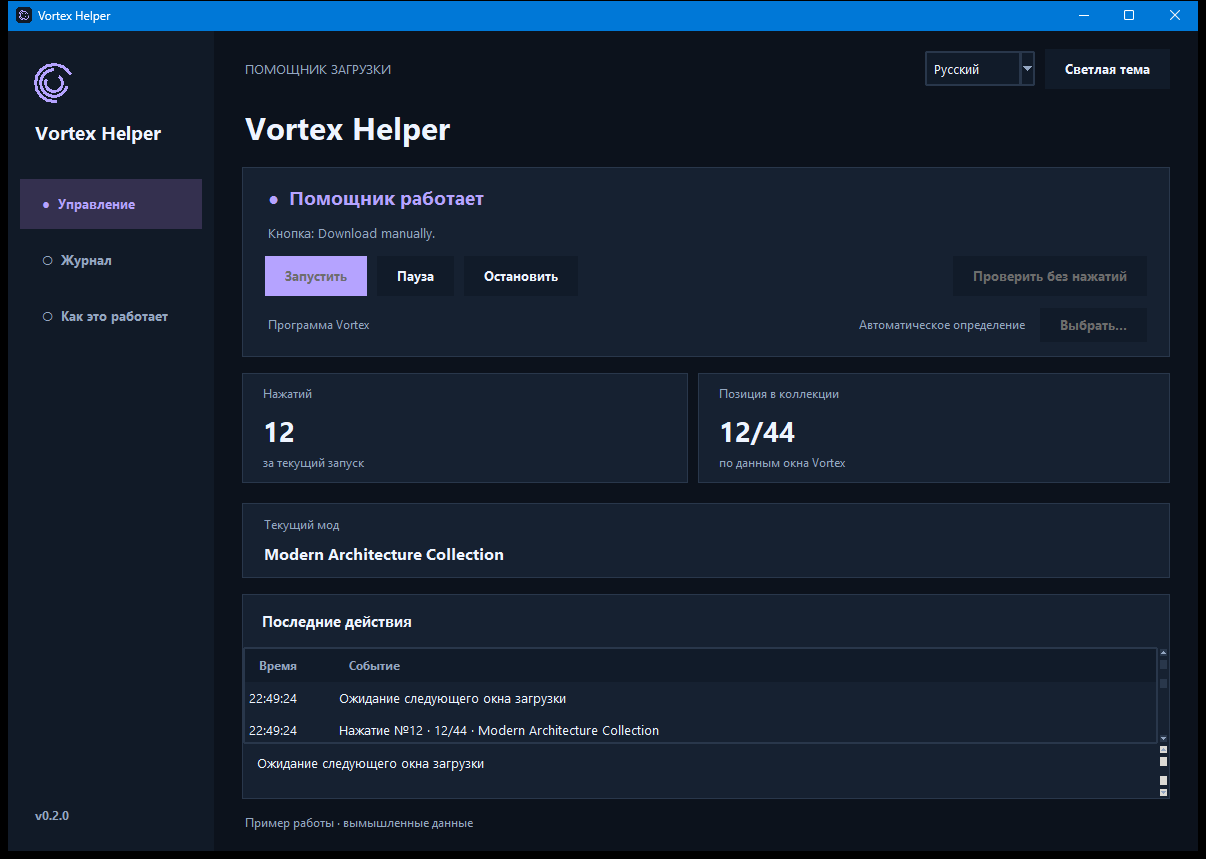
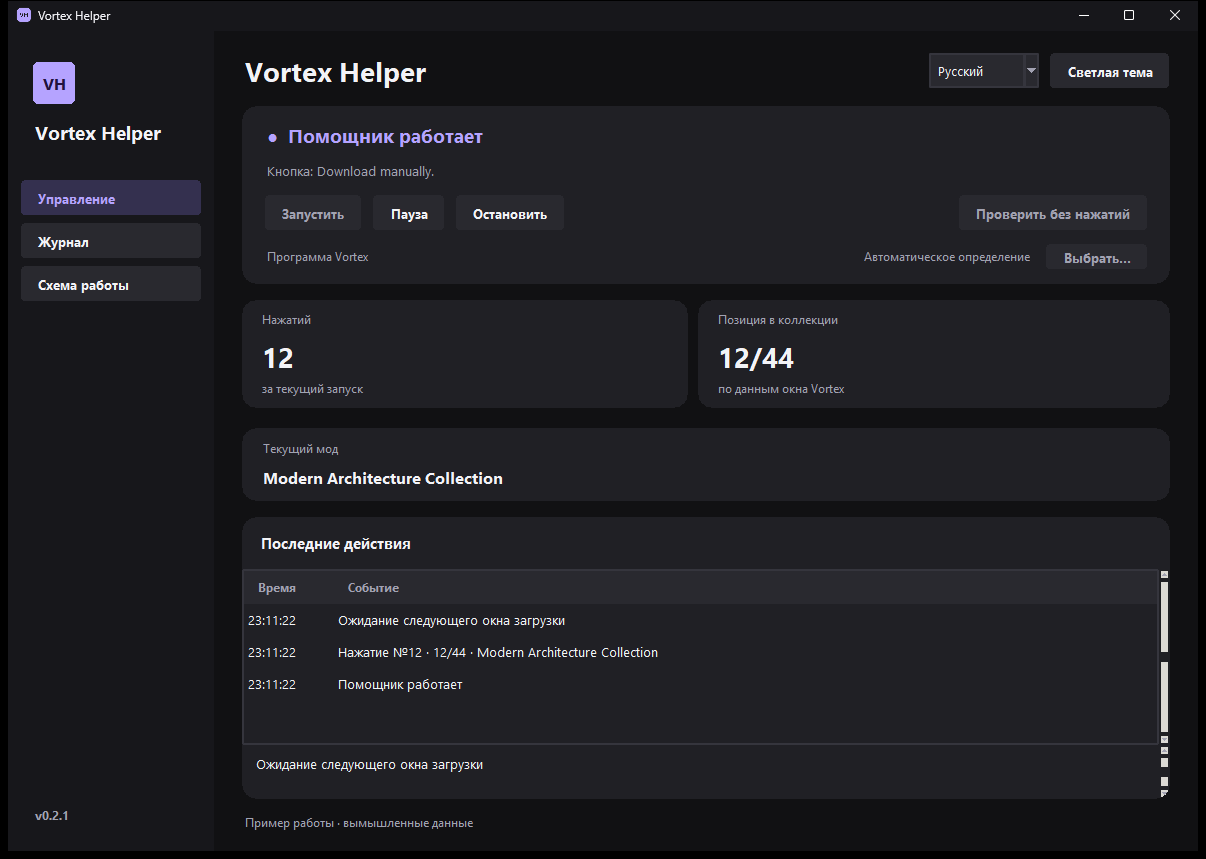
Release 0.2.1: portable desktop UI, Russian/English themes and verified controls

diff --git a/desktop_ui.py b/desktop_ui.py
@@ -10,13 +10,14 @@ import struct
 import sys
 import tkinter as tk
 from tkinter import ttk
+from tkinter import font as tkfont
 import zlib
 
 PALETTES = {
-    'dark': dict(bg='#0c121c', side='#111a27', card='#162131', field='#111b29', line='#29374b',
-                 text='#eef4ff', muted='#94a6c1', hover='#22324a', accent='#68e0b6', ink='#092a21',
+    'dark': dict(bg='#111113', side='#17171b', card='#202025', field='#29292f', line='#35353d',
+                 text='#f3f3f7', muted='#a2a2b2', hover='#34343e', accent='#68e0b6', ink='#092a21',
                  red='#ff939c', amber='#f4c574', blue='#90baff', selected='#283e50'),
-    'light': dict(bg='#f1f4f9', side='#ffffff', card='#ffffff', field='#f5f7fb', line='#d9e1ed',
+    'light': dict(bg='#f3f4f7', side='#ffffff', card='#ffffff', field='#edeff4', line='#e0e3eb',
                   text='#19283f', muted='#60718a', hover='#e7edf7', accent='#137d60', ink='#ffffff',
                   red='#b42c45', amber='#916013', blue='#2868ae', selected='#dbeee7'),
 }
@@ -49,10 +50,14 @@ def windows_setup(root, dark):
     if sys.platform != 'win32':
         return
     try:
-        hwnd = ctypes.windll.user32.GetParent(root.winfo_id())
+        from ctypes import wintypes
+        user=ctypes.windll.user32; dwm=ctypes.windll.dwmapi
+        user.GetAncestor.argtypes=[wintypes.HWND,wintypes.UINT];user.GetAncestor.restype=wintypes.HWND
+        dwm.DwmSetWindowAttribute.argtypes=[wintypes.HWND,wintypes.DWORD,ctypes.c_void_p,wintypes.DWORD]
+        hwnd=user.GetAncestor(root.winfo_id(),2)
         value = ctypes.c_int(bool(dark))
         ctypes.windll.dwmapi.DwmSetWindowAttribute(hwnd, 20, ctypes.byref(value), 4)
-        for attribute, color in ((35, 0x1c120c if dark else 0xf9f4f1), (36, 0xfff4ee if dark else 0x3f2819)):
+        for attribute, color in ((35, 0x1b1717 if dark else 0xf7f4f3), (36, 0xf7f3f3 if dark else 0x3f2819)):
             native_color=ctypes.c_uint(color)
             ctypes.windll.dwmapi.DwmSetWindowAttribute(hwnd, attribute, ctypes.byref(native_color), 4)
     except (AttributeError, OSError):
@@ -64,20 +69,80 @@ def label(parent, text, palette, size=10, bold=False, muted=False, **kwargs):
                     font=('Segoe UI', size, 'bold' if bold else 'normal'), anchor='w', **kwargs)
 
 
-def button(parent, text, command, palette, primary=False, width=None):
-    kwargs = dict(text=text, command=command, font=('Segoe UI', 10, 'bold'), relief='flat', bd=0,
-                  bg=palette['accent'] if primary else palette['field'],
-                  fg=palette['ink'] if primary else palette['text'],
-                  activebackground=palette['hover'], activeforeground=palette['text'],
-                  padx=17, pady=8, cursor='hand2', takefocus=True,
-                  highlightthickness=1, highlightbackground=palette['line'], highlightcolor=palette['accent'])
-    if width:
-        kwargs['width'] = width
-    return tk.Button(parent, **kwargs)
+def round_shape(canvas,x1,y1,x2,y2,radius,**kwargs):
+    r=min(radius,(x2-x1)/2,(y2-y1)/2)
+    return canvas.create_polygon(x1+r,y1,x2-r,y1,x2,y1,x2,y1+r,x2,y2-r,x2,y2,x2-r,y2,
+        x1+r,y2,x1,y2,x1,y2-r,x1,y1+r,x1,y1,smooth=True,splinesteps=24,**kwargs)
+
+
+class RoundedButton(tk.Canvas):
+    def __init__(self,parent,text,command,palette,primary=False,width=None,anchor='center',active=False):
+        self.palette=palette;self.primary=primary;self.command=command;self.text=text;self.state='normal'
+        self.padx=18;self.pady=10;self.hovered=False;self.focused=False;self.anchor=anchor;self.active=active
+        self.font=tkfont.Font(family='Segoe UI',size=10,weight='bold')
+        self.minimum_width=(width or 0)*8
+        super().__init__(parent,bg=parent.cget('bg'),highlightthickness=0,bd=0,takefocus=1,cursor='hand2')
+        self.bind('<Configure>',lambda _:self.draw())
+        self.bind('<Enter>',lambda _:self.hover(True));self.bind('<Leave>',lambda _:self.hover(False))
+        self.bind('<Button-1>',lambda _:self.invoke());self.bind('<space>',lambda _:self.invoke());self.bind('<Return>',lambda _:self.invoke())
+        self.bind('<FocusIn>',lambda _:self.focus(True));self.bind('<FocusOut>',lambda _:self.focus(False))
+        self.resize()
+
+    def resize(self):
+        super().configure(width=max(self.minimum_width,self.font.measure(self.text)+self.padx*2),height=self.font.metrics('linespace')+self.pady*2)
+        self.draw()
+
+    def configure(self,cnf=None,**kwargs):
+        if isinstance(cnf,dict):kwargs.update(cnf)
+        resized=False
+        for key in ('text','command','state','padx','pady'):
+            if key in kwargs:
+                setattr(self,key,kwargs.pop(key));resized=True
+        if kwargs:super().configure(**kwargs)
+        if resized:self.resize()
+        else:self.draw()
+    config=configure
+
+    def cget(self,key):
+        if key in ('state','text','command'):return getattr(self,key)
+        return super().cget(key)
+
+    def invoke(self):
+        if self.state!='disabled' and self.command:return self.command()
+
+    def hover(self,value):self.hovered=value;self.draw()
+    def focus(self,value):self.focused=value;self.draw()
+
+    def draw(self):
+        if not self.winfo_exists():return
+        p=self.palette;disabled=self.state=='disabled'
+        fill=p['field'] if disabled else p['accent'] if self.primary else p['selected'] if self.active else p['hover'] if self.hovered else p['field']
+        foreground=p['muted'] if disabled else p['ink'] if self.primary else p['accent'] if self.active else p['text']
+        self.delete('all')
+        w=max(self.winfo_width(),int(super().cget('width')));h=int(super().cget('height'))
+        round_shape(self,1,1,w-1,h-1,10,fill=fill,outline=p['accent'] if self.focused and not disabled else '')
+        self.create_text(self.padx if self.anchor=='w' else w/2,h/2,text=self.text,font=self.font,fill=foreground,anchor=self.anchor)
+
+
+def button(parent,text,command,palette,primary=False,width=None):
+    return RoundedButton(parent,text,command,palette,primary,width)
 
 
 def card(parent, palette, **kwargs):
-    return tk.Frame(parent, bg=palette['card'], highlightbackground=palette['line'], highlightthickness=1, **kwargs)
+    frame=tk.Frame(parent,bg=palette['card'],bd=0,**kwargs)
+    previous=[None]
+    def clip(event):
+        if os.name!='nt' or (event.width,event.height)==previous[0] or event.width<30 or event.height<30:return
+        previous[0]=(event.width,event.height)
+        from ctypes import wintypes
+        gdi=ctypes.windll.gdi32;user=ctypes.windll.user32
+        gdi.CreateRoundRectRgn.restype=wintypes.HANDLE
+        gdi.CreateRoundRectRgn.argtypes=[ctypes.c_int]*6
+        user.SetWindowRgn.argtypes=[wintypes.HWND,wintypes.HANDLE,wintypes.BOOL]
+        region=gdi.CreateRoundRectRgn(0,0,event.width+1,event.height+1,28,28)
+        if not user.SetWindowRgn(frame.winfo_id(),region,True):gdi.DeleteObject(region)
+    frame.bind('<Configure>',clip)
+    return frame
 
 
 def text_area(parent, palette, height=5, expand=False):
@@ -157,6 +222,7 @@ class DesktopApp:
         self.root.option_add('*TCombobox*Listbox.foreground', self.p['text'])
         windows_setup(self.root, self.theme == 'dark')
         self.root.after_idle(lambda: windows_setup(self.root, self.theme == 'dark'))
+        self.root.after(80,lambda:windows_setup(self.root,self.theme=='dark'))
 
     def shell(self, brand, subtitle, navigation):
         for child in self.root.winfo_children():
@@ -168,29 +234,21 @@ class DesktopApp:
         side.pack_propagate(False)
         mark = tk.Canvas(side, width=44, height=44, bg=p['side'], highlightthickness=0)
         mark.pack(anchor='w', padx=24, pady=(30, 12))
-        if self.purple:
-            for offset in range(3):
-                mark.create_arc(3+offset*5, 3+offset*5, 40-offset*5, 40-offset*5,
-                                start=25+offset*65, extent=255, style='arc', width=3, outline=p['accent'])
-        else:
-            mark.create_polygon(22, 2, 40, 9, 37, 28, 22, 42, 7, 28, 4, 9, fill=p['accent'], outline='')
-            mark.create_line(13, 21, 20, 28, 31, 15, fill=p['ink'], width=3)
+        round_shape(mark,1,1,43,43,12,fill=p['accent'],outline='')
+        mark.create_text(22,22,text='VH' if self.purple else 'MA',fill=p['ink'],font=('Segoe UI',12,'bold'))
         label(side, brand, p, 14, True).pack(anchor='w', padx=24,pady=(0,28))
         for index, title in enumerate(navigation):
             active = index == self.nav
-            nav = tk.Button(side, text=('  ●  ' if active else '  ○  ')+title, command=lambda i=index: self.select_nav(i),
-                            bg=p['selected'] if active else p['side'], fg=p['accent'] if active else p['muted'],
-                            activebackground=p['hover'], activeforeground=p['text'], font=('Segoe UI', 10, 'bold'),
-                            relief='flat', anchor='w', bd=0, padx=12, pady=13, cursor='hand2')
+            nav=RoundedButton(side,title,lambda i=index:self.select_nav(i),p,anchor='w',active=active)
             nav.pack(fill='x', padx=12, pady=3)
         bottom = tk.Frame(side, bg=p['side'])
         bottom.pack(side='bottom', fill='x', padx=24, pady=25)
-        label(bottom, 'v0.2.0', p, 9, bold=True, muted=True).pack(anchor='w')
+        label(bottom, 'v0.2.1', p, 9, bold=True, muted=True).pack(anchor='w')
         self.main = tk.Frame(self.root, bg=p['bg'])
         self.main.pack(side='left', fill='both', expand=True, padx=28, pady=18)
         top = tk.Frame(self.main, bg=p['bg'])
         top.pack(fill='x', pady=(0, 14))
-        label(top, self.t('workspace'), p, 10, muted=True).pack(side='left')
+        label(top,self.root.title(),p,20,True).pack(side='left')
         self.theme_button = button(top, self.t('light' if self.theme == 'dark' else 'dark'), self.toggle_theme, p)
         self.theme_button.pack(side='right', padx=(10, 0))
         self.language_box = ttk.Combobox(top, values=['Русский', 'English'], state='readonly', width=11, font=('Segoe UI', 10))

diff --git a/gui.py b/gui.py
@@ -9,12 +9,12 @@ import tempfile
 import tkinter as tk
 from tkinter import filedialog
 
-from desktop_ui import DesktopApp, benchmark, button, card, capture_window, label, put_text, text_area
+from desktop_ui import DesktopApp, benchmark, button, card, capture_window, label, put_text, text_area,round_shape
 from helper_runtime import HelperSession
 
 WORDS = {
  'ru': dict(local='Локальное управление. Без доступа к аккаунту.', workspace='ПОМОЩНИК ЗАГРУЗКИ', light='Светлая тема', dark='Тёмная тема',
-    overview='Управление', activity='Журнал', help='Как это работает', title='Vortex Helper',
+    overview='Управление', activity='Журнал', help='Схема работы', title='Vortex Helper',
     subtitle='Один точный клик, когда меняется мод. Даже если кнопка перемещается.',
     idle='Готов к запуску', running='Помощник работает', paused='Пауза', checking='Проверка окна Vortex', stopped='Помощник остановлен', failed='Нужно ваше внимание',
     intro='Кнопка: Download manually.',
@@ -28,11 +28,13 @@ WORDS = {
     absent='Подходящего окна загрузки сейчас нет. Ничего не нажато.', duplicate='Уже работает другой экземпляр помощника.',
     timeout='Время ожидания истекло. Проверьте результат в Vortex.', target_event='Программа: {path}',
     error='Ошибка: {message}', ended='Сеанс завершён', safe='Нажатий по координатам нет. Premium, Skip и Cancel не используются.',
-    help_title='Справка',
+    help_title='Vortex Helper',flow_one='Vortex',flow_two='Проверка окна',flow_three='Нажатие',
+    step_one='Откройте загрузку коллекции в Vortex.',step_two='Проверьте доступ к кнопке без нажатий.',step_three='Запустите помощник. Новый мод — одно нажатие.',
+    guide_note='Страницы сайта, CAPTCHA и ошибки установки требуют отдельного действия.',
     help_body='1. Откройте Vortex и начните загрузку коллекции.\n\n2. Нажмите «Проверить без нажатий», чтобы проверить доступность нужного окна.\n\n3. Запустите помощник. Кнопка нажимается только после двух стабильных наблюдений одного мода и повторной проверки прямо перед нажатием.\n\n4. Остановите помощник после завершения. Его остановка по таймауту не означает, что все файлы скачались.\n\nСтраницы браузера, CAPTCHA, вход в аккаунт и ошибки установки требуют отдельного внимания. Помощник не изменяет файлы модов и не управляет учётной записью.\n\nПроверенные элементы интерфейса Vortex имеют английские названия. Переключение языка здесь меняет язык помощника.\n\nЖурнал этого окна хранится в памяти, настройки языка и темы — локально. Консольный помощник также ведёт свой журнал в папке TEMP.',
     demo='Пример работы · вымышленные данные'),
  'en': dict(local='Local controls. No account access.', workspace='DOWNLOAD ASSISTANT', light='Light theme', dark='Dark theme',
-    overview='Controls', activity='Activity', help='How it works', title='Vortex Helper',
+    overview='Controls', activity='Activity', help='Workflow', title='Vortex Helper',
     subtitle='One deliberate click when the mod changes. Even when the button moves.',
     idle='Ready when you are', running='Helper is running', paused='Paused', checking='Checking the Vortex window', stopped='Helper stopped', failed='Your attention is needed',
     intro='Target button: Download manually.',
@@ -46,7 +48,9 @@ WORDS = {
     absent='No eligible download dialog is currently visible. Nothing was clicked.', duplicate='Another helper instance is already running.',
     timeout='Idle timeout. Check the result in Vortex.', target_event='Application: {path}',
     error='Error: {message}', ended='Session ended', safe='No coordinate clicks. Premium, Skip and Cancel are never used.',
-    help_title='Help',
+    help_title='Vortex Helper',flow_one='Vortex',flow_two='Read dialog',flow_three='Click',
+    step_one='Open a collection download in Vortex.',step_two='Check button access without clicking.',step_three='Start the helper. One click for each new mod.',
+    guide_note='Website pages, CAPTCHA and installation errors need separate attention.',
     help_body='1. Open Vortex and start a collection download.\n\n2. Use Check without clicking to check whether the expected dialog is accessible.\n\n3. Start the helper. A button is invoked only after two stable observations of a mod and a fresh check immediately before the click.\n\n4. Stop the helper when finished. An idle timeout does not establish that every file downloaded.\n\nBrowser pages, CAPTCHA, account login and installation errors may still need your attention. The helper does not alter mod files or access your account.\n\nThe verified Vortex controls have English labels. The language selector here changes the helper language.\n\nThis window keeps its activity log in memory and saves language/theme settings locally. The console helper also keeps its own log in TEMP.',
     demo='Sample session · synthetic data'),
 }
@@ -69,12 +73,8 @@ class HelperApp(DesktopApp):
     def render(self):
         parent = self.shell('Vortex Helper', '', [self.t('overview'), self.t('activity'), self.t('help')])
         if self.nav == 2:
-            label(parent, self.t('help_title'), self.p, 23, True).pack(anchor='w', pady=(0, 20))
-            panel=card(parent,self.p); panel.pack(fill='both', expand=True)
-            put_text(text_area(panel,self.p,height=20,expand=True), self.t('help_body'))
+            self.render_guide(parent)
             return
-        label(parent, self.t('title'), self.p, 23, True).pack(anchor='w')
-        tk.Frame(parent,bg=self.p['bg'],height=16).pack()
         if self.nav == 0:
             hero=card(parent,self.p,padx=22,pady=14); hero.pack(fill='x',pady=(0,16))
             status=label(hero,'●  '+self.t(self.state_key),self.p,14,True)
@@ -109,6 +109,34 @@ class HelperApp(DesktopApp):
         self.tree=self.table(panel,[('time',self.t('time'),90),('event',self.t('event'),700)],heights=2 if self.nav==0 else 13)
         self.tree.bind('<<TreeviewSelect>>',self.select_activity)
         self.refresh_activity()
+
+    def render_guide(self,parent):
+        p=self.p
+        label(parent,self.t('help'),p,12,True).pack(anchor='w',pady=(0,18))
+        panel=card(parent,p,padx=22,pady=22);panel.pack(fill='x')
+        diagram=tk.Canvas(panel,height=135,bg=p['card'],highlightthickness=0);diagram.pack(fill='x');self.flow_diagram=diagram
+        def draw(_=None):
+            diagram.delete('all');width=diagram.winfo_width();cell=(width-48)/3
+            for index,key in enumerate(('flow_one','flow_two','flow_three')):
+                x=8+index*(cell+16)
+                round_shape(diagram,x,22,x+cell,110,16,fill=p['field'],outline='')
+                diagram.create_oval(x+16,38,x+44,66,fill=p['accent'],outline='')
+                diagram.create_text(x+30,52,text=str(index+1),fill=p['ink'],font=('Segoe UI',10,'bold'))
+                diagram.create_text(x+16,88,text=self.t(key),fill=p['text'],anchor='w',font=('Segoe UI',11,'bold'))
+                if index<2:diagram.create_line(x+cell+3,66,x+cell+13,66,fill=p['muted'],width=2,arrow='last')
+        diagram.bind('<Configure>',draw)
+        for index,key in enumerate(('step_one','step_two','step_three')):
+            row=tk.Frame(panel,bg=p['card']);row.pack(fill='x',pady=12)
+            label(row,str(index+1).zfill(2),p,12,True,muted=True).pack(side='left',padx=(0,18))
+            label(row,self.t(key),p,11,wraplength=680).pack(side='left')
+        controls=tk.Frame(panel,bg=p['card']);controls.pack(fill='x',pady=(18,0))
+        check=button(controls,self.t('check'),lambda:self.start(True),p,True)
+        check.configure(state='disabled' if self.busy else 'normal');check.pack(side='left')
+        if self.activity:
+            label(panel,self.event_text(self.activity[-1]),p,10,muted=True,wraplength=740).pack(anchor='w',pady=(18,0))
+        label(parent,self.t('guide_note'),p,10,muted=True,wraplength=840).pack(anchor='w',pady=20)
+        shortcuts=card(parent,p,padx=20,pady=16);shortcuts.pack(fill='x')
+        label(shortcuts,self.t('quiet'),p,11,True).pack(anchor='w')
 
     def browse(self):
         selected=filedialog.askopenfilename(parent=self.root,title=self.t('choose'),filetypes=[('Vortex','Vortex.exe')])
@@ -201,6 +229,9 @@ def self_test(artifacts):
                 checked.append(f'{language}/{theme}')
         for nav in (1,2,0):
             app.select_nav(nav); root.update()
+            if nav==2:
+                assert len(app.flow_diagram.find_all())>=14
+                capture_window(root,artifacts/'vortex-workflow.png')
         root.geometry('1000x740');root.update()
         for widget in (app.start_button,app.details,app.language_box,app.theme_button):
             assert widget.winfo_ismapped()

diff --git a/VERIFICATION.md b/VERIFICATION.md
@@ -2,7 +2,7 @@
 
 ## Русский
 
-Версия 0.2.0 проверена из исходников и как portable EXE: русский/английский, тёмная/светлая тема, минимальный размер, переключатели языка/темы, кнопки запуска, паузы, продолжения и остановки, журнал. Самопроверка GUI использует имитацию сеанса и не нажимает реальные кнопки Vortex.
+Версия 0.2.1 проверена из исходников и как portable EXE: русский/английский, тёмная/светлая тема, минимальный размер, переключатели языка/темы, кнопки запуска, паузы, продолжения и остановки, журнал. Самопроверка GUI использует имитацию сеанса и не нажимает реальные кнопки Vortex.
 
 Отдельный интеграционный тест создаёт собственное WPF-окно `Vortex.exe` с заданными AutomationId. Проверенный путь привязан только к временному тестовому файлу. Настоящий PowerShell-движок вызывает его кнопки. Проверены первый клик, перемещение без дубля, пауза, следующий мод после продолжения, отсутствие нажатий после остановки и режим без нажатий. Настоящие моды не скачиваются, пользовательский Vortex не изменяется.
 
@@ -19,7 +19,7 @@ python tests/test_windows_integration.py
 
 ## English
 
-Version 0.2.0 was checked from source and as a portable EXE: Russian/English, dark/light themes, minimum window size, actual language/theme controls, start/pause/resume/stop buttons and the activity log. GUI self-test uses a simulated session.
+Version 0.2.1 was checked from source and as a portable EXE: Russian/English, dark/light themes, minimum window size, actual language/theme controls, start/pause/resume/stop buttons and the activity log. GUI self-test uses a simulated session.
 
 The separate integration test creates its own temporary WPF `Vortex.exe` fixture with explicit AutomationIds. The executable path is pinned to that fixture. The real PowerShell engine invokes only the fixture's buttons. It verifies the first click, movement without duplication, pause, advancing after resume, no clicks after stop and check-only behavior. No real mods are downloaded and the user's Vortex is not modified.
 

diff --git a/README.en.md b/README.en.md
@@ -12,6 +12,9 @@ A portable `.exe`, with no installer or separate Python requirement. Language, t
 
 ## Usage
 
+The Workflow section shows Vortex → dialog check → click and includes the check-without-clicking action.
+
+
 1. Open Vortex and start a collection download.
 2. Optionally select `Vortex.exe`; otherwise the single running Vortex window is detected.
 3. Check without clicking reads the dialog without invoking it.
